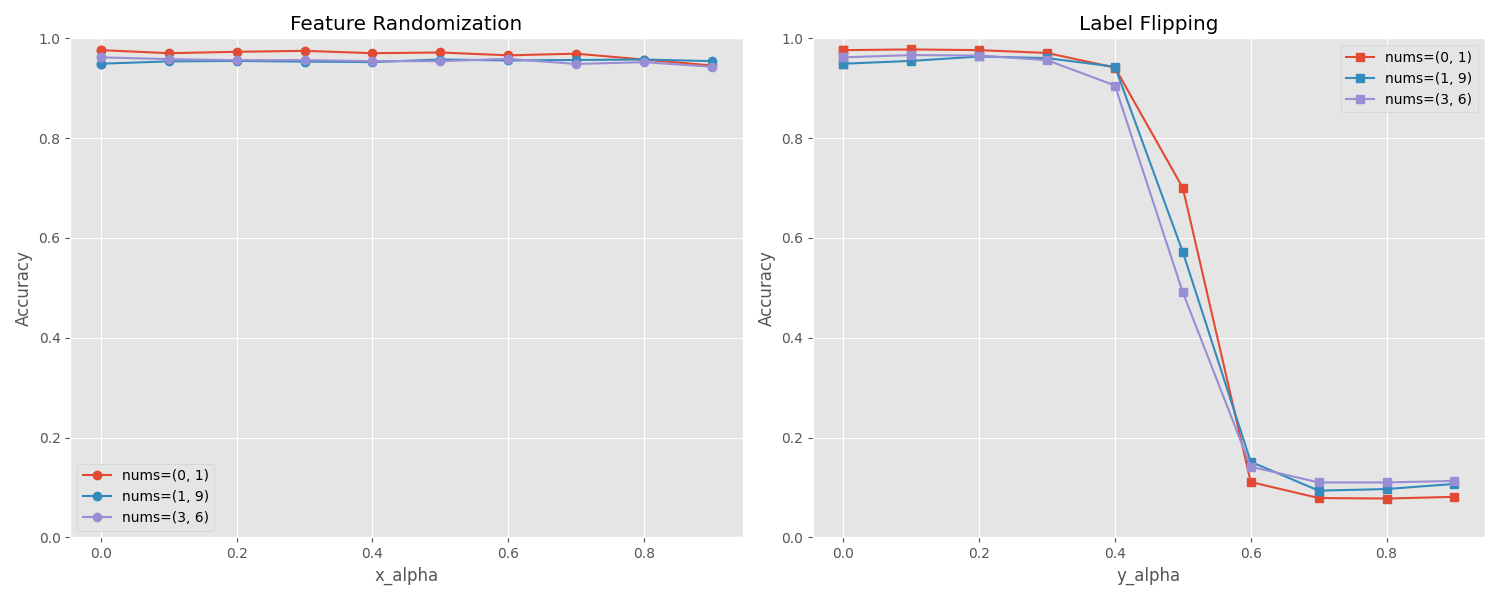
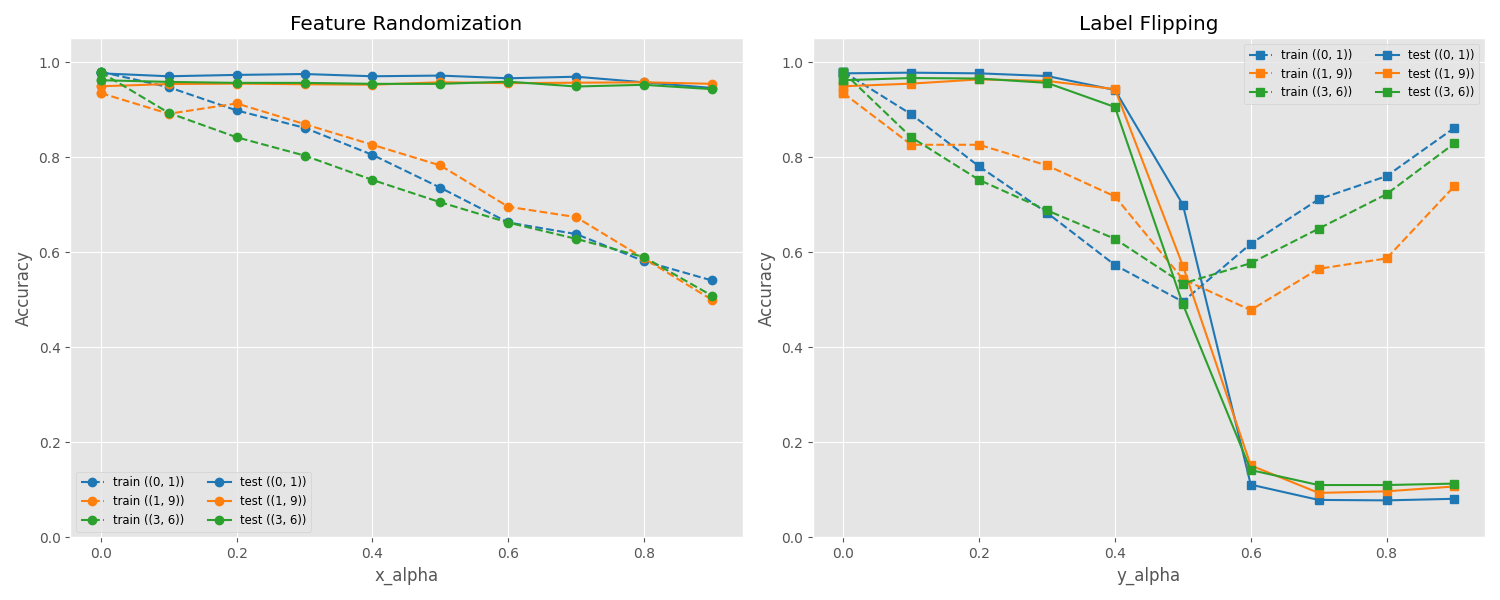
hello-poison

diff --git a/schemes.py b/schemes.py
@@ -6,7 +6,7 @@ import torch.nn as nn
 import torch.optim as optim
 import time
 from sklearn.metrics import accuracy_score, f1_score
-from datasets import MNISTDataLoaders, qml_Dataloaders
+from datasets import MNISTDataLoaders, qml_Dataloaders,poison
 from FusionModel import QNet
 from FusionModel import translator, single_enta_to_design
 
@@ -110,7 +110,7 @@ def Scheme_eval(design, task, backend='tq',nums=(1,9),poison_x=0,poison_y=0):
     result['mae'] = evaluate(model, test_loader, args)
     return result
 
-def Scheme(design, task, weight='base', epochs=None, verbs=None, save=None, nums=(1,9), poison_x=0, poison_y=0):
+def Scheme(design, task, weight='base', epochs=None, verbs=None, save=None, nums=(1,9), poison_x=0, poison_y=0, dataloader=None):
     model_path=f'weights/tmp_{nums[0], nums[1]}_poison_({poison_x:.1f}, {poison_y:.1f})'
     seed = 42
     random.seed(seed)
@@ -119,42 +119,39 @@ def Scheme(design, task, weight='base', epochs=None, verbs=None, save=None, nums
     torch.manual_seed(seed)
     torch.cuda.manual_seed(seed)
     torch.cuda.manual_seed_all(seed)
-
     args = Arguments(**task)
     if epochs == None:
         epochs = args.epochs
-    
-    if task['task'].startswith('QML'):
-        dataloader = qml_Dataloaders(args)
-    else:
-        dataloader = MNISTDataLoaders(args, task['task'], nums=nums, poison_x=poison_x, poison_y=poison_y)
-   
-    train_loader, val_loader, test_loader = dataloader
+
     model = QNet(args, design).to(args.device)
-    if weight != 'init':
-        if weight != 'base':
-            model.load_state_dict(weight, strict= False)
-        else:            
-            model.load_state_dict(torch.load('init_weights/base_fashion'))
-    criterion = nn.NLLLoss()
-    optimizer = optim.Adam(model.QuantumLayer.parameters(), lr=args.qlr)
-    train_loss_list, val_acc_list = [], []
-    best_val_acc = 0
-    start = time.time()
-    best_model = model   
+    best_model = model
+
+    train_loader, val_loader, test_loader = dataloader
+    poison_loader=poison(train_loader,poison_x,poison_y)
 
     if os.path.exists(model_path):
         print(f'Weights found at {model_path}, skipping training.')
         best_model.load_state_dict(torch.load(model_path))
-    elif epochs == 0:
-        print('No training epochs specified, skipping training.')
     else:
+        if weight != 'init':
+            if weight != 'base':
+                model.load_state_dict(weight, strict=False)
+            else:
+                model.load_state_dict(torch.load('init_weights/base_fashion'))
+
+        criterion = nn.NLLLoss()
+        optimizer = optim.Adam(model.QuantumLayer.parameters(), lr=args.qlr)
+        train_loss_list, val_acc_list = [], []
+        best_val_acc = 0
+        start = time.time()
+        best_model = model
+
         for epoch in range(epochs):
             try:
-                train(model, train_loader, optimizer, criterion, args)
+                train(model, poison_loader, optimizer, criterion, args)
             except Exception as e:
                 print('No parameter gate exists')
-            train_loss, train_acc = test(model, train_loader, criterion, args)
+            train_loss, train_acc = test(model, poison_loader, criterion, args)
             train_loss_list.append(train_loss)        
             val_acc = evaluate(model, val_loader, args)
             val_acc_list.append(val_acc)
@@ -169,11 +166,13 @@ def Scheme(design, task, weight='base', epochs=None, verbs=None, save=None, nums
         if save:
             os.makedirs('weights', exist_ok=True)
             torch.save(best_model.state_dict(), model_path)
-    end = time.time()        
-    metrics = evaluate(best_model, test_loader, args)
-    display(metrics)
-    print("Running time: %s seconds" % (end - start))
-    return metrics
+        end = time.time()
+        print("Running time: %s seconds" % (end - start))
+
+    train_acc = evaluate(best_model, poison_loader, args)
+    test_acc = evaluate(best_model, test_loader, args)
+    display(test_acc)
+    return train_acc, test_acc
 
 
 if __name__ == '__main__':
@@ -218,17 +217,17 @@ if __name__ == '__main__':
     # design = translator(single, enta, 'full', arch_code, args.fold)
     # design = op_list_to_design(op_list, arch_code)
     design = single_enta_to_design(single, enta, arch_code, args.fold)
-    # for nums in [(0, 1), (1, 9), (3, 6)]:
-    #     Scheme(design, task, 'init', 10, verbs=False, save=True, nums=nums)
 
-    res=pd.DataFrame(columns=['nums','x_alpha','y_alpha','acc'])
+
+    res=pd.DataFrame(columns=['nums','x_alpha','y_alpha','train_acc','test_acc'])
     for nums in [(0, 1), (1, 9), (3, 6)]:
+        dataloader = MNISTDataLoaders(args, task['task'], nums=nums)
         for alpha in np.arange(0, 1, 0.1):
             print('-'*20+f'nums: {nums}, alpha: {alpha}'+'-'*20)
-            acc_x = Scheme(design, task, 'init', 10, verbs=False, save=True,nums=nums,poison_x=alpha)
-            res.loc[len(res)] = [str(nums), alpha, 0, acc_x]
-            acc_y = Scheme(design, task, 'init', 10, verbs=False, save=True,nums=nums,poison_y=alpha)
-            res.loc[len(res)] = [str(nums), 0, alpha, acc_y]
+            acc_x_train, acc_x_test = Scheme(design, task, 'init', 10, verbs=False, save=True,nums=nums,poison_x=alpha,dataloader=dataloader)
+            res.loc[len(res)] = [str(nums), alpha, 0, acc_x_train, acc_x_test]
+            acc_y_train, acc_y_test = Scheme(design, task, 'init', 10, verbs=False, save=True,nums=nums,poison_y=alpha,dataloader=dataloader)
+            res.loc[len(res)] = [str(nums), 0, alpha, acc_y_train, acc_y_test]
 
     # 保存结果到文件
     output_path = 'poison_results.csv'

diff --git a/datasets.py b/datasets.py
@@ -65,8 +65,7 @@ def MOSIDataLoaders(args):
 import torch
 from torchquantum.dataset import MNIST
 
-
-def MNISTDataLoaders(args, task, sets=['train'], nums=[0,1], poison_x=0, poison_y=0):
+def MNISTDataLoaders(args, task, nums=(0,1)):
     """
     Args:
         sets: list of splits to apply poisoning to (e.g. ['train', 'valid', 'test'])
@@ -93,42 +92,7 @@ def MNISTDataLoaders(args, task, sets=['train'], nums=[0,1], poison_x=0, poison_
         fashion=FAHION,
         n_train_samples=None
         )
-
-    for split in sets:
-        if split not in dataset:
-            continue
-        
-        # Filter samples to ensure first half is nums[0] and second half is nums[1]
-        data_n0 = []
-        labels_n0 = []
-        data_n1 = []
-        labels_n1 = []
-        
-        for i in range(len(dataset[split])):
-            item = dataset[split][i]
-            if item['digit'] == 0:
-                data_n0.append(item['image'])
-                labels_n0.append(item['digit'])
-            elif item['digit'] == 1:
-                data_n1.append(item['image'])
-                labels_n1.append(item['digit'])
-        
-        data = torch.stack(data_n0 + data_n1).numpy()
-        labels = np.array(labels_n0 + labels_n1)
-
-        # Apply poisoning
-        # args.x and args.y are used as parameters for the poisoning functions
-        if poison_y > 0:
-            labels, _ = flip_labels(labels, poison_y)
-        
-        if poison_x > 0:
-            # For data_poison, replace with random noise as per poison.py implementation when ordered=False
-            data, _ = data_poison(data, poison_x, ordered=False)
-        
-        # Reconstruct dataset
-        dataset[split] = MyDataset(torch.from_numpy(data), torch.from_numpy(labels))
-
-    dataflow = dict()
+    dataflow =dict()
     for split in dataset:
         if split == 'train':
             sampler = torch.utils.data.RandomSampler(dataset[split])
@@ -146,6 +110,61 @@ def MNISTDataLoaders(args, task, sets=['train'], nums=[0,1], poison_x=0, poison_
             pin_memory=True)
 
     return dataflow['train'], dataflow['valid'], dataflow['test']
+
+
+def poison(dataloader, poison_x=0, poison_y=0):
+    """
+    Args:
+        dataloader: The input dataloader to be poisoned.
+        poison_x: alpha for data_poison (feature poisoning ratio)
+        poison_y: alpha for flip_labels (label flipping ratio)
+    Returns:
+        poisonloader: A new DataLoader with poisoned data.
+    """
+    data_list = []
+    labels_list = []
+    
+    for feed_dict in dataloader:
+        data_list.append(feed_dict['image'])
+        labels_list.append(feed_dict['digit'])
+    
+    data = torch.cat(data_list).numpy()
+    labels = torch.cat(labels_list).numpy()
+
+    # Ensure equal number of label 0 and label 1 samples
+    idx0 = np.where(labels == 0)[0]
+    idx1 = np.where(labels == 1)[0]
+    n_samples = min(len(idx0), len(idx1))
+    
+    idx0 = idx0[:n_samples]
+    idx1 = idx1[:n_samples]
+    
+    # Sort data by labels: first half label 0, second half label 1
+    sort_idx = np.concatenate([idx0, idx1])
+    data = data[sort_idx]
+    labels = labels[sort_idx]
+
+    # Apply poisoning
+    if poison_y > 0.001:
+        labels, _ = flip_labels(labels, poison_y)
+    
+    if poison_x > 0.001:
+        # For data_poison, replace with random noise as per poison.py implementation when ordered=False
+        data, _ = data_poison(data, poison_x, ordered=False)
+    
+    # Reconstruct dataset
+    poisoned_dataset = MyDataset(torch.from_numpy(data), torch.from_numpy(labels))
+    
+    # Use the same batch size as the original dataloader
+    batch_size = dataloader.batch_size if dataloader.batch_size is not None else 1
+
+    poisonloader = torch.utils.data.DataLoader(
+        poisoned_dataset,
+        batch_size=batch_size,
+        shuffle=True,
+        pin_memory=True)
+        
+    return poisonloader
 
 
 class MyDataset(Dataset):

diff --git a/plot_poison_results.py b/plot_poison_results.py
@@ -14,6 +14,7 @@ plt.style.use('ggplot')
 
 # 获取不同的 nums
 unique_nums = df['nums'].unique()
+colors = ['#1f77b4', '#ff7f0e', '#2ca02c', '#d62728', '#9467bd', '#8c564b']
 
 # 创建画布，两个子图
 fig, (ax1, ax2) = plt.subplots(1, 2, figsize=(15, 6))
@@ -21,28 +22,42 @@ fig, (ax1, ax2) = plt.subplots(1, 2, figsize=(15, 6))
 # 图1：基于 x_alpha (feature randomization)
 # 筛选 y_alpha == 0 的数据来展示 x_alpha 的影响
 df_x = df[df['y_alpha'] == 0].sort_values('x_alpha')
-for num in unique_nums:
+train_handles_x = []
+test_handles_x = []
+for i, num in enumerate(unique_nums):
+    color = colors[i % len(colors)]
     data = df_x[df_x['nums'] == num]
-    ax1.plot(data['x_alpha'], data['acc'], marker='o', label=f'nums={num}')
+    line1, = ax1.plot(data['x_alpha'], data['train_acc'], marker='o', linestyle='--', color=color, label=f'train ({num})')
+    line2, = ax1.plot(data['x_alpha'], data['test_acc'], marker='o', linestyle='-', color=color, label=f'test ({num})')
+    train_handles_x.append(line1)
+    test_handles_x.append(line2)
 
 ax1.set_title('Feature Randomization')
 ax1.set_xlabel('x_alpha')
 ax1.set_ylabel('Accuracy')
-ax1.set_ylim(0, 1)
-ax1.legend()
+ax1.set_ylim(0, 1.05)
+# Reorder handles to show train on left, test on right in each row
+ax1.legend(handles=train_handles_x + test_handles_x, fontsize='small', ncol=2)
 
 # 图2：基于 y_alpha (label flipping)
 # 筛选 x_alpha == 0 的数据来展示 y_alpha 的影响
 df_y = df[df['x_alpha'] == 0].sort_values('y_alpha')
-for num in unique_nums:
+train_handles_y = []
+test_handles_y = []
+for i, num in enumerate(unique_nums):
+    color = colors[i % len(colors)]
     data = df_y[df_y['nums'] == num]
-    ax2.plot(data['y_alpha'], data['acc'], marker='s', label=f'nums={num}')
+    line1, = ax2.plot(data['y_alpha'], data['train_acc'], marker='s', linestyle='--', color=color, label=f'train ({num})')
+    line2, = ax2.plot(data['y_alpha'], data['test_acc'], marker='s', linestyle='-', color=color, label=f'test ({num})')
+    train_handles_y.append(line1)
+    test_handles_y.append(line2)
 
 ax2.set_title('Label Flipping')
 ax2.set_xlabel('y_alpha')
 ax2.set_ylabel('Accuracy')
-ax2.set_ylim(0, 1)
-ax2.legend()
+ax2.set_ylim(0, 1.05)
+# Reorder handles to show train on left, test on right in each row
+ax2.legend(handles=train_handles_y + test_handles_y, fontsize='small', ncol=2)
 
 plt.tight_layout()
 plt.savefig('poison_curves.png')
